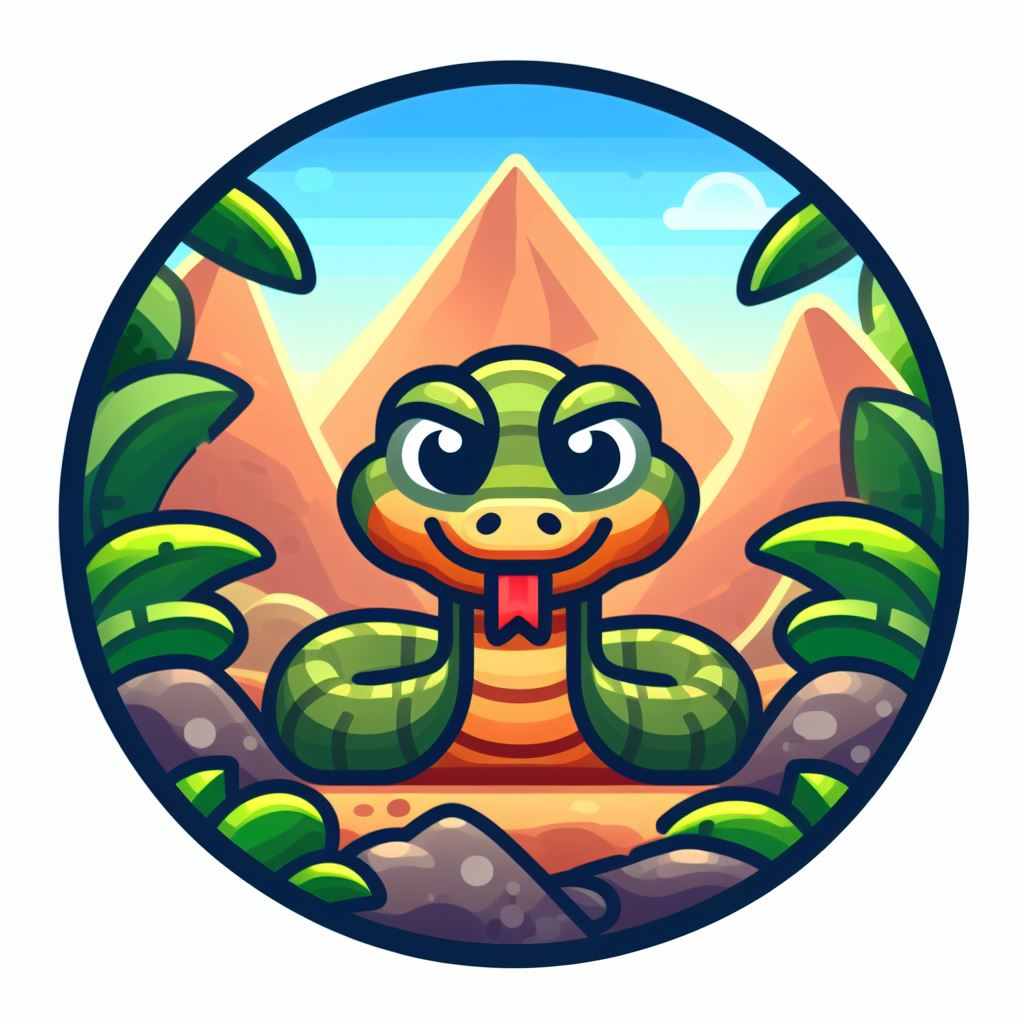
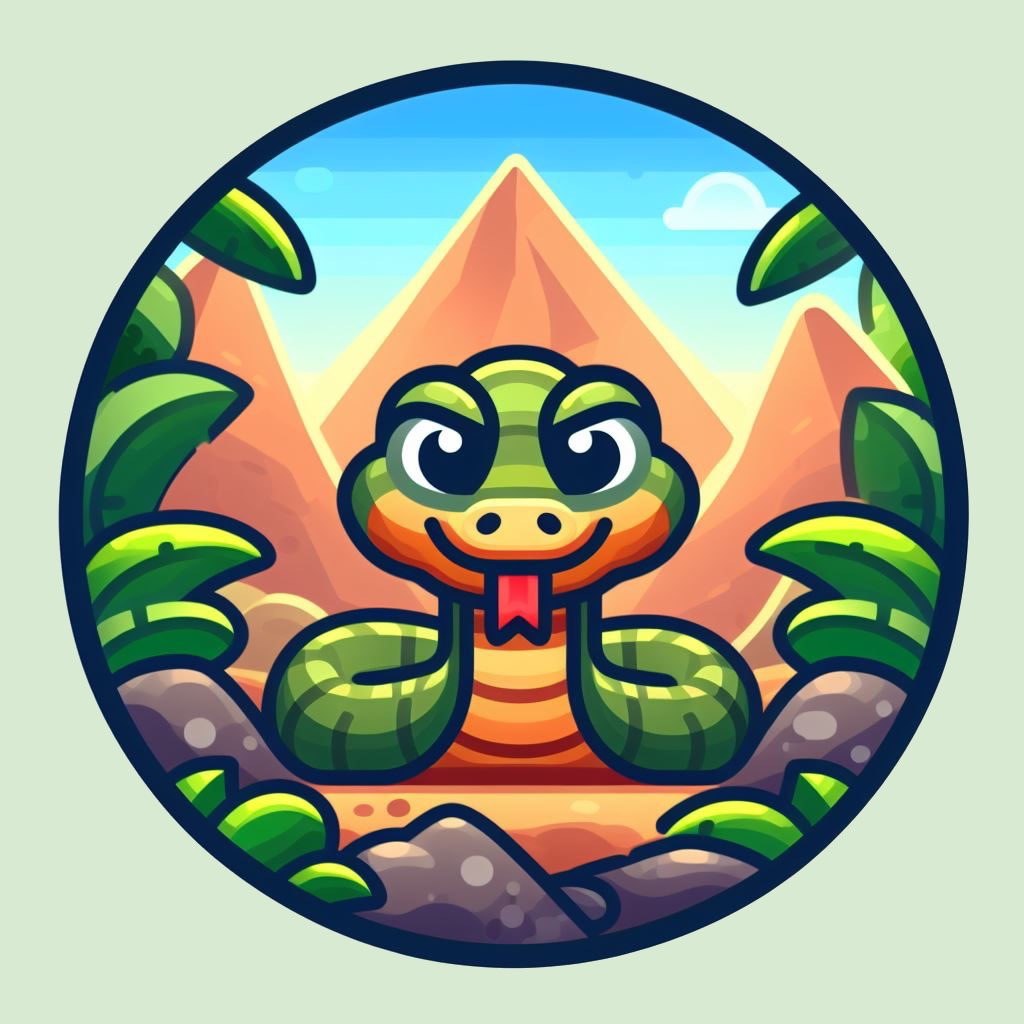
Implemented StartMenu layout with custom fonts and fixed-sized buttons

diff --git a/src/main/java/ca/bcit/comp2522/termproject/anacondaadventure/StartMenu.java b/src/main/java/ca/bcit/comp2522/termproject/anacondaadventure/StartMenu.java
@@ -1,0 +1,79 @@
+package ca.bcit.comp2522.termproject.anacondaadventure;
+
+import javafx.application.Application;
+import javafx.geometry.Pos;
+import javafx.scene.Scene;
+import javafx.scene.control.Button;
+import javafx.scene.image.Image;
+import javafx.scene.image.ImageView;
+import javafx.scene.layout.VBox;
+import javafx.scene.paint.Color;
+import javafx.scene.text.Font;
+import javafx.scene.text.Text;
+import javafx.stage.Stage;
+
+import java.io.InputStream;
+
+public class StartMenu extends Application {
+    private static final int WIDTH = 800;
+    private static final int HEIGHT = 600;
+
+    public static void main(String[] args) {
+        launch(args);
+    }
+
+    @Override
+    public void start(Stage primaryStage) {
+        primaryStage.setTitle("Snake Game - Start Menu");
+
+        // Load the logo image
+        Image logo = new Image(getClass().getResourceAsStream("/images/anaconda.jpg"));
+        ImageView logoView = new ImageView(logo);
+        logoView.setFitWidth(300); // Set the width of the logo image
+        logoView.setPreserveRatio(true);
+
+        // Load custom font
+        Font customFont = loadCustomFont("/fonts/Retro Gaming.ttf", 36);
+
+        Text title = new Text("Anaconda Adventure");
+        title.setFont(customFont);
+        title.setFill(Color.DARKGREEN);
+
+        Button timeAttackButton = createStyledButton("Time Attack", customFont);
+        timeAttackButton.setOnAction(event -> {
+            primaryStage.close();
+            AnacondaAdventure.setGameMode("Time Attack");
+            AnacondaAdventure.main(new String[0]);
+        });
+
+        Button endlessButton = createStyledButton("Endless", customFont);
+        endlessButton.setOnAction(event -> {
+            primaryStage.close();
+            AnacondaAdventure.setGameMode("Endless");
+            AnacondaAdventure.main(new String[0]);
+        });
+
+        VBox layout = new VBox(20); // Increased spacing between elements
+        layout.setAlignment(Pos.CENTER);
+        layout.getChildren().addAll(logoView, title, timeAttackButton, endlessButton);
+        layout.setStyle("-fx-background-color: #d9ead3; -fx-padding: 50px;");
+
+        Scene scene = new Scene(layout, WIDTH, HEIGHT);
+        primaryStage.setScene(scene);
+        primaryStage.show();
+    }
+
+    private Font loadCustomFont(String path, double size) {
+        InputStream fontStream = getClass().getResourceAsStream(path);
+        return Font.loadFont(fontStream, size);
+    }
+
+    private Button createStyledButton(String text, Font font) {
+        Button button = new Button(text);
+        button.setMinSize(200, 50);
+        button.setMaxSize(200, 50);
+        button.setStyle("-fx-font-family: 'Retro Gaming'; -fx-font-size: 18;");
+        return button;
+    }
+
+}
